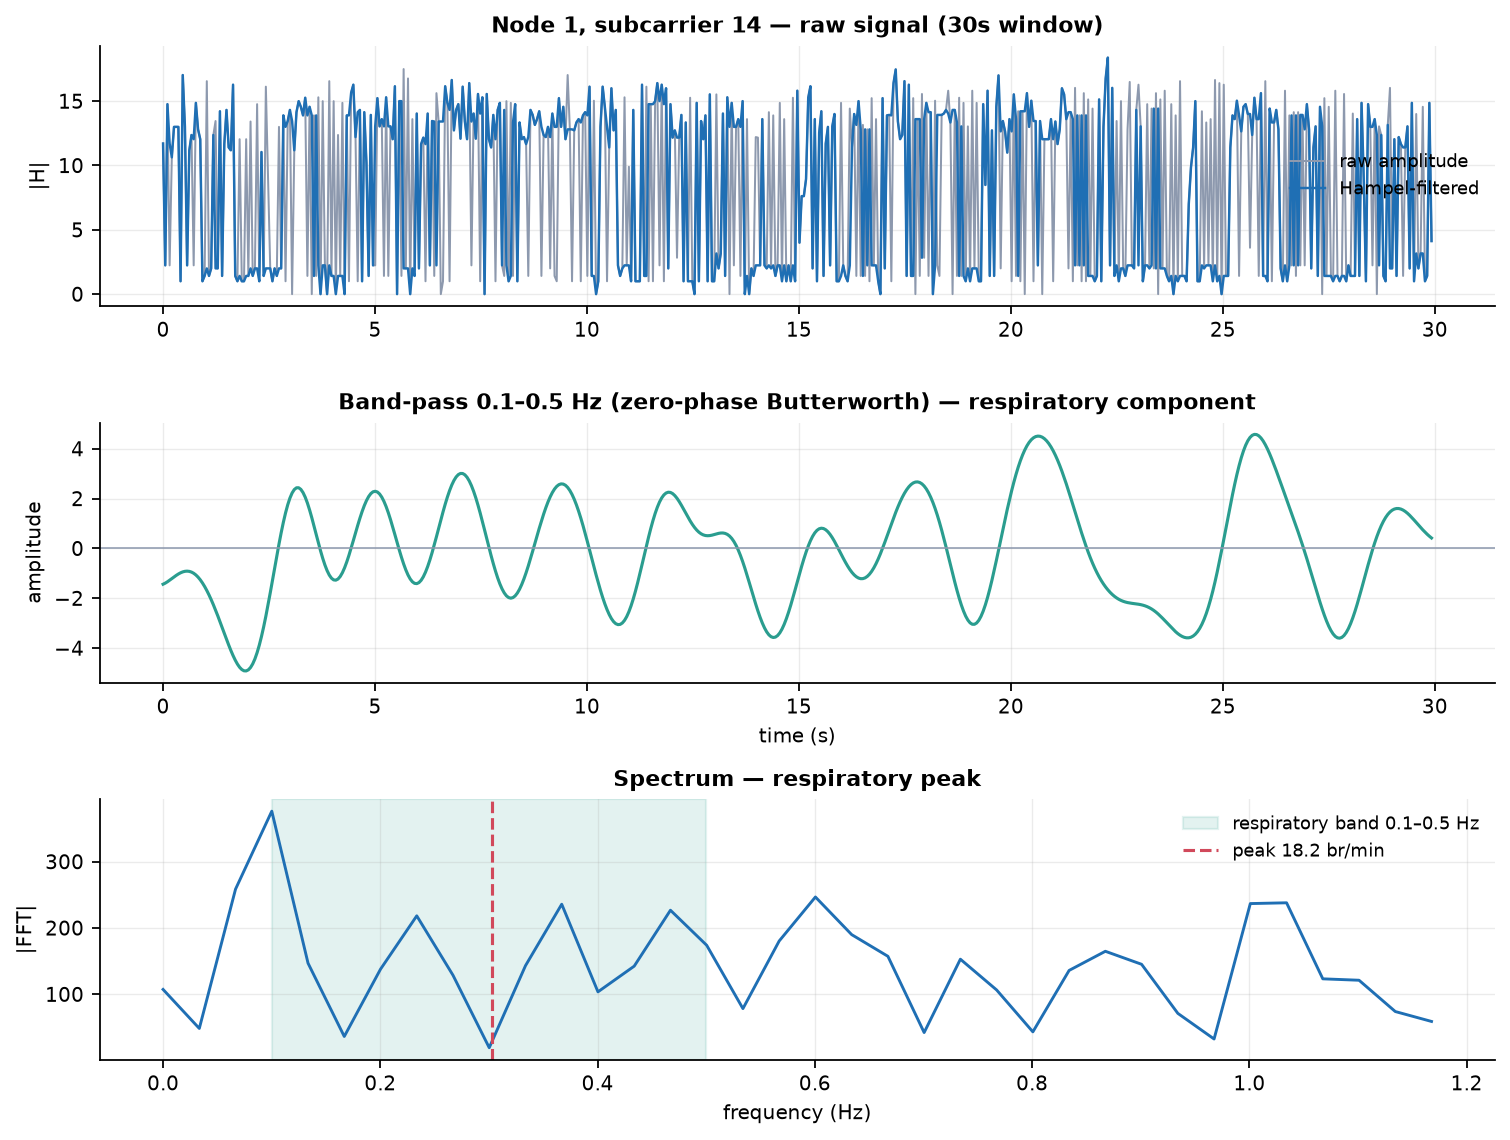
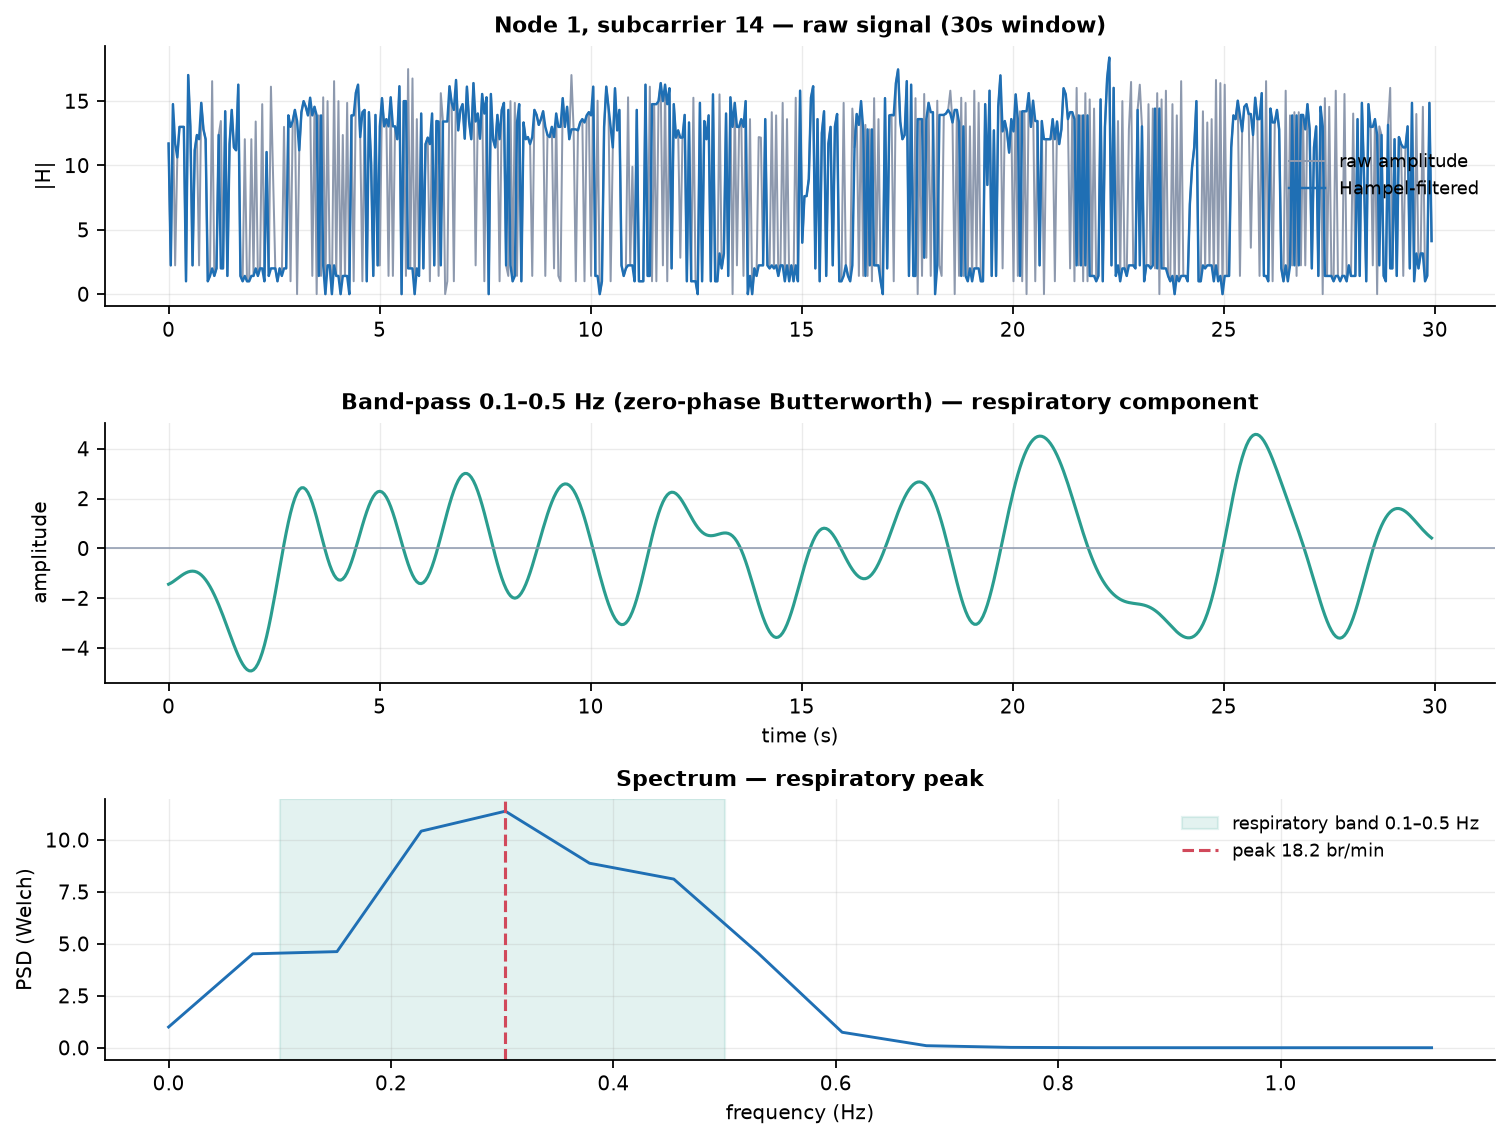
Draw the same Welch spectrum the respiration estimator searches so the marked peak lands on the plotted curve

diff --git a/analyze_csi.py b/analyze_csi.py
@@ -26,6 +26,7 @@ from __future__ import annotations
 import argparse
 import csv
 import json
+import math
 import sys
 from collections import defaultdict
 from pathlib import Path
@@ -35,6 +36,7 @@ import matplotlib
 matplotlib.use("Agg")  # no display needed; write straight to file
 import matplotlib.pyplot as plt
 import numpy as np
+from scipy import signal as sp_signal
 
 sys.path.insert(0, str(Path(__file__).resolve().parent))
 
@@ -280,9 +282,16 @@ def fig_respiration_extraction(nodes: dict, selected: dict, out: Path, window_s:
     axes[1].set_ylabel("amplitude")
     axes[1].set_xlabel("time (s)")
 
-    # Spectrum of the conditioned signal, respiratory band shaded.
-    spec = np.abs(np.fft.rfft(clean * np.hanning(clean.size)))
-    freqs = np.fft.rfftfreq(clean.size, 1.0 / fs)
+    # Plot the SAME spectrum the estimator searches: a Welch PSD of the
+    # BAND-PASSED signal, with the identical segment length dsp._band_power
+    # uses. An earlier version drew a Hann-windowed raw FFT of the unfiltered
+    # series while annotating it with the peak returned by
+    # respiratory_estimate -- two different estimators over two different
+    # signals on one axis. On some windows they disagreed badly enough that the
+    # marked peak landed in a trough of the drawn curve, which is worse than
+    # having no figure at all.
+    nper = int(min(band.size, max(8, 2 ** int(math.log2(max(band.size // 2, 8))))))
+    freqs, spec = sp_signal.welch(band, fs=fs, nperseg=nper)
     keep = freqs <= 1.2
     axes[2].plot(freqs[keep], spec[keep], color=C_PRIMARY, lw=1.3)
     axes[2].axvspan(*RESPIRATORY_BAND_HZ, color=C_GREEN, alpha=0.13,
@@ -292,7 +301,7 @@ def fig_respiration_extraction(nodes: dict, selected: dict, out: Path, window_s:
                         label=f"peak {est.bpm:.1f} br/min")
     axes[2].set_title("Spectrum — respiratory peak")
     axes[2].set_xlabel("frequency (Hz)")
-    axes[2].set_ylabel("|FFT|")
+    axes[2].set_ylabel("PSD (Welch)")
     axes[2].legend(frameon=False, fontsize=8)
 
     fig.tight_layout()
